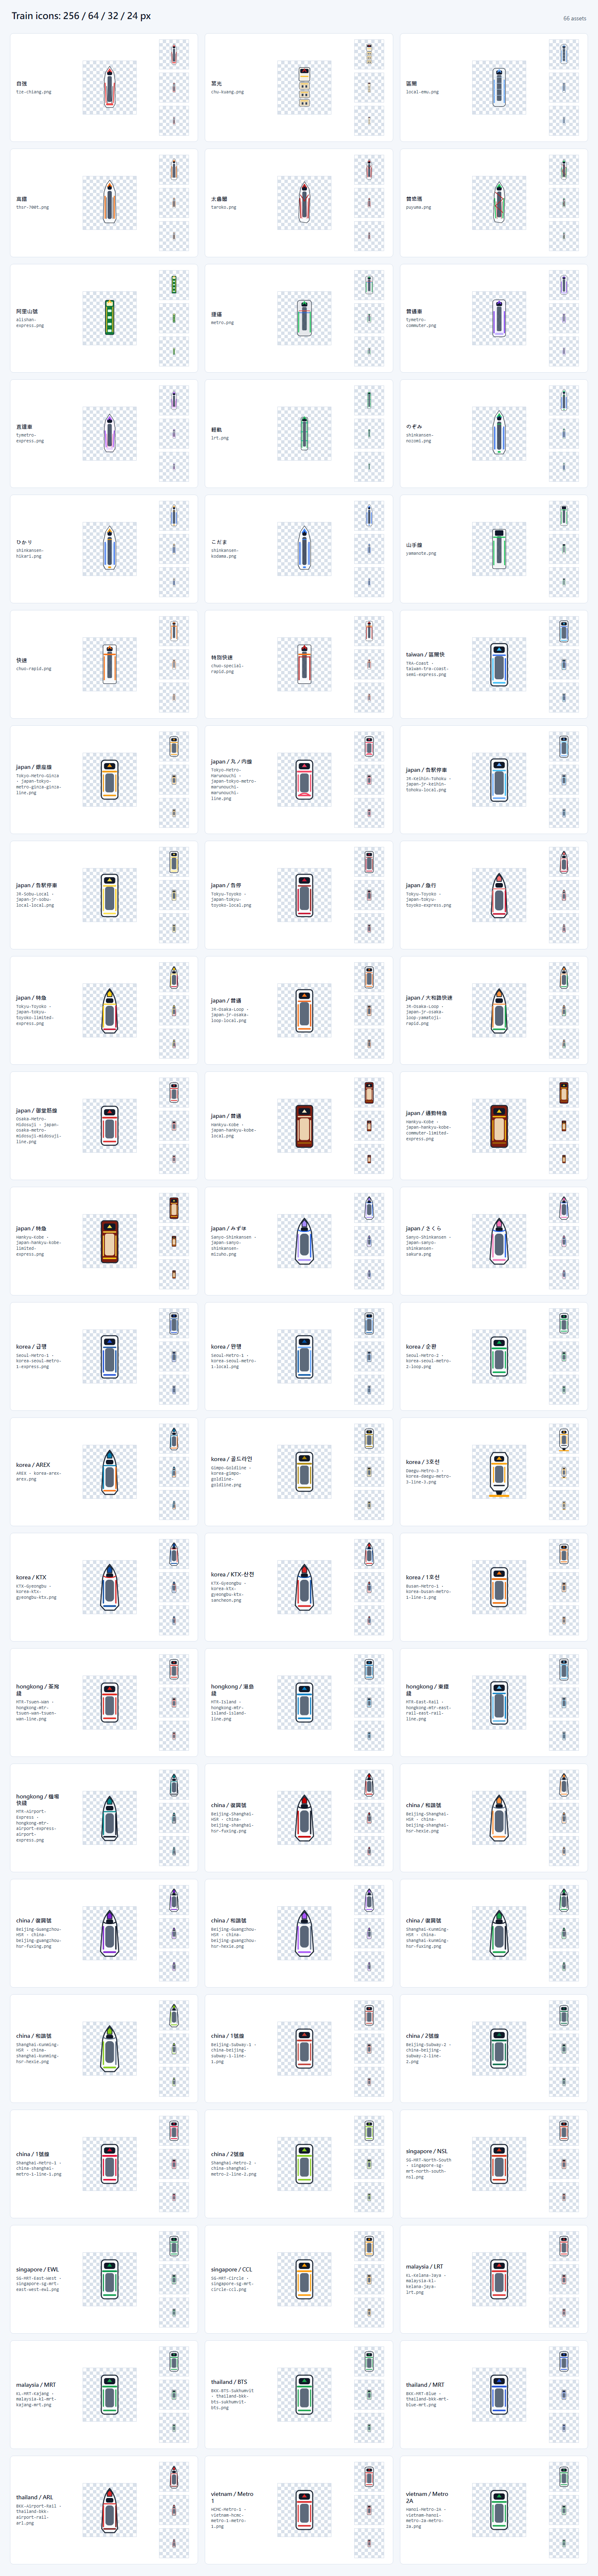
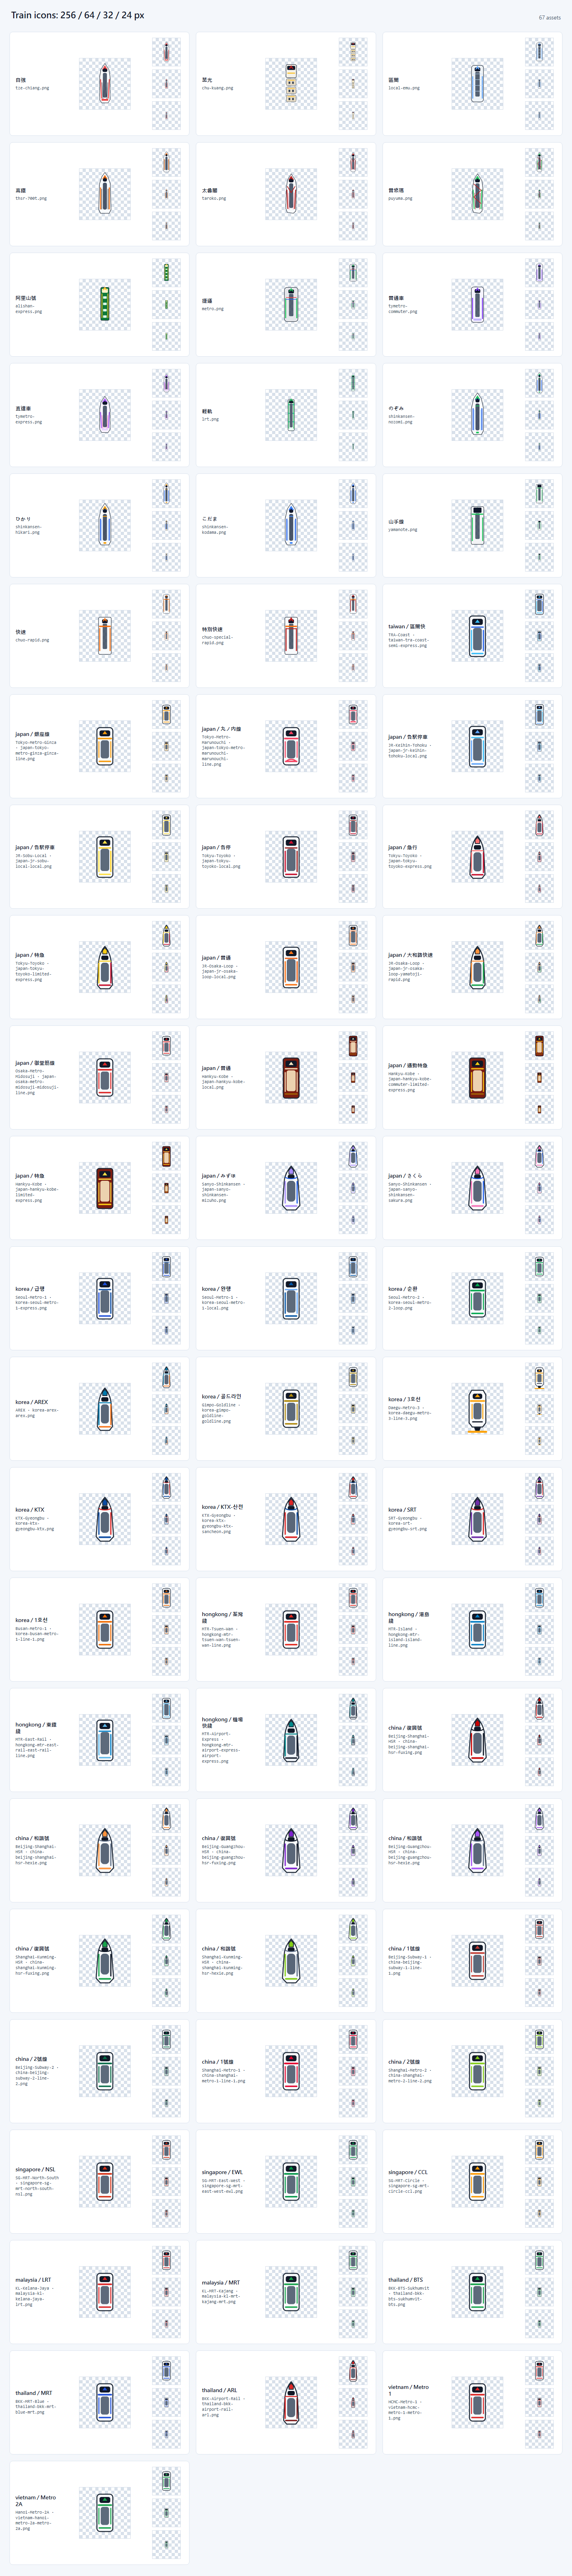
Add Korea SRT Gyeongbu data

diff --git a/src/rail-data.js b/src/rail-data.js
@@ -1363,6 +1363,31 @@ export const RAIL_DATA = {
         ],
       },
       {
+        id: "SRT-Gyeongbu",
+        name: "SRT 경부선",
+        nameEn: "SRT Gyeongbu Line",
+        color: "#6f2da8",
+        category: "HSR",
+        directions: { up: "수서 방면", down: "부산 방면" },
+        // SR official route: 수서 → 동탄 → 평택지제 → 천안아산 → 오송 → 대전 →
+        // 김천(구미) → 서대구 → 동대구 → 신경주 → 울산(통도사) → 부산.
+        // The end-to-end distance follows SR's Suseo-Busan 401.2 km service length.
+        stations: [
+          { name: "수서",       lat: 37.487321, lng: 127.101690, km: 0,     dwellSec: 90 },
+          { name: "동탄",       lat: 37.200138, lng: 127.095533, km: 32.4 },
+          { name: "평택지제",   lat: 37.018749, lng: 127.069842, km: 56.9 },
+          { name: "천안아산",   lat: 36.7945,   lng: 127.1043,   km: 82.0 },
+          { name: "오송",       lat: 36.6202,   lng: 127.3260,   km: 114.0 },
+          { name: "대전",       lat: 36.3320,   lng: 127.4346,   km: 147.0, dwellSec: 60 },
+          { name: "김천구미",   lat: 36.1153,   lng: 128.1732,   km: 211.0 },
+          { name: "서대구",     lat: 35.881470, lng: 128.540403, km: 270.0 },
+          { name: "동대구",     lat: 35.8794,   lng: 128.6285,   km: 279.0, dwellSec: 60 },
+          { name: "신경주",     lat: 35.7975,   lng: 129.1369,   km: 321.0 },
+          { name: "울산",       lat: 35.5512,   lng: 129.1330,   km: 350.0 },
+          { name: "부산",       lat: 35.1153,   lng: 129.0418,   km: 401.2, dwellSec: 90 },
+        ],
+      },
+      {
         id: "Busan-Metro-1",
         name: "부산 도시철도 1호선",
         nameEn: "Busan Metro Line 1",
@@ -1423,6 +1448,7 @@ export const RAIL_DATA = {
       { line: "Daegu-Metro-3",  type: "3호선",  badge: "3",      badgeColor: "#FDA208", speed: 70, interval: 5,  accel: 1.00, decel: 1.10, aLat: 0.90, dwellSec: 25 },
       { line: "KTX-Gyeongbu",   type: "KTX",    badge: "KTX",    badgeColor: "#0c4ca3", speed: 250, interval: 20, accel: 0.72, decel: 0.70, aLat: 0.85, dwellSec: 60 },
       { line: "KTX-Gyeongbu",   type: "KTX-산천", badge: "산천", badgeColor: "#dc2626", speed: 230, interval: 30, accel: 0.72, decel: 0.70, aLat: 0.85, dwellSec: 60 },
+      { line: "SRT-Gyeongbu",   type: "SRT",    badge: "SRT",    badgeColor: "#6f2da8", speed: 250, interval: 20, accel: 0.72, decel: 0.70, aLat: 0.85, dwellSec: 60 },
       { line: "Busan-Metro-1",  type: "1호선",  badge: "1",      badgeColor: "#f06a00", speed: 35, interval: 4,  accel: 1.00, decel: 1.10, aLat: 0.95, dwellSec: 25 },
     ],
   },

diff --git a/src/train-icon-registry.js b/src/train-icon-registry.js
@@ -49,6 +49,7 @@ export const TRAIN_ICON_REGISTRY = {
     'korea|Daegu-Metro-3|3호선': { icon: 'assets/train-icons/korea-daegu-metro-3-line-3.png', kind: 'monorail' },
     'korea|KTX-Gyeongbu|KTX': { icon: 'assets/train-icons/korea-ktx-gyeongbu-ktx.png', kind: 'shinkansen' },
     'korea|KTX-Gyeongbu|KTX-산천': { icon: 'assets/train-icons/korea-ktx-gyeongbu-ktx-sancheon.png', kind: 'shinkansen' },
+    'korea|SRT-Gyeongbu|SRT': { icon: 'assets/train-icons/korea-srt-gyeongbu-srt.png', kind: 'shinkansen' },
     'korea|Busan-Metro-1|1호선': { icon: 'assets/train-icons/korea-busan-metro-1-line-1.png', kind: 'metro' },
 
     'hongkong|MTR-Tsuen-Wan|荃灣綫': { icon: 'assets/train-icons/hongkong-mtr-tsuen-wan-tsuen-wan-line.png', kind: 'metro' },

diff --git a/doc/east-asia-expansion-plan.md b/doc/east-asia-expansion-plan.md
@@ -9,9 +9,9 @@
 ## 整體進度
 
 - **Phase A（手寫站表 + 車種）：完成 34/34 條（100%）** — `npm run check:timing` & `npm run test:smoke` & `npm run build` 全通過
-- **Phase B（OSM relation 對接）：34/34 條完成（100%）** — 批次 1–11 已補 OSM relation 並回灌真實軌道形狀；本輪沒有保留 0 km fallback。2026-05-09 高誤差複查後，補上 relation stop member 對站與 generated stationCoords 吸附，57 條線 runtime maxOffset 全部壓到 1.0 km 內。
+- **Phase B（OSM relation 對接）：34/34 條完成（100%）** — 批次 1–11 已補 OSM relation 並回灌真實軌道形狀；本輪沒有保留 0 km fallback。2026-05-10 加入南韓 backlog seeds 後，61 條線 runtime maxOffset 全部壓到 1.0 km 內。
 - **完整覆蓋 backlog（日本 / 南韓）：已建立規劃事項** — 覆蓋尚未加入的鐵道類型與候選線群；此區塊是後續大型擴張，不列入已完成的 34 條 Phase A/B 統計。
-- **Backlog seed（南韓 Airport / LRT-AGT / Monorail）：AREX、Gimpo Goldline 與 Daegu Metro Line 3 已完成代表線** — `AREX` 已補手寫站表、all-stop train template、OSM relation `7919000`、line-aware train icon；`Gimpo-Goldline` 已補 light metro 站表、all-stop train template、OSM relation `10092720`、line-aware train icon；`Daegu-Metro-3` 已補單軌站表、all-stop train template、OSM relation `7685727`、line-aware monorail train icon；可作為後續機場線、低運量自動化線與單軌線的 SOP 範例。
+- **Backlog seed（南韓 HSR / Airport / LRT-AGT / Monorail）：SRT Gyeongbu、AREX、Gimpo Goldline 與 Daegu Metro Line 3 已完成代表線** — `SRT-Gyeongbu` 已補手寫站表、SRT train template、OSM relation `6096884` + `6094351` corridor、line-aware SRT badge train icon；`AREX` 已補手寫站表、all-stop train template、OSM relation `7919000`、line-aware train icon；`Gimpo-Goldline` 已補 light metro 站表、all-stop train template、OSM relation `10092720`、line-aware train icon；`Daegu-Metro-3` 已補單軌站表、all-stop train template、OSM relation `7685727`、line-aware monorail train icon；可作為後續高速鐵道、機場線、低運量自動化線與單軌線的 SOP 範例。
 
 ## 類型分類
 
@@ -146,11 +146,11 @@
 
 ### 南韓：未加入類型與候選線群
 
-目前已加入南韓代表線：수도권 전철 1호선、서울 지하철 2호선、KTX 경부선、부산 도시철도 1호선。下表列出尚未完整納入的類型：
+目前已加入南韓代表線：수도권 전철 1호선、서울 지하철 2호선、KTX 경부선、SRT 경부선、부산 도시철도 1호선。下表列出尚未完整納入的類型：
 
 | 狀態 | 類型 | 規劃範圍 | 候選線群 / 例子 | 資料源 | 備註 |
 |---|---|---|---|---|---|
-| □ backlog | HSR | KTX / SRT 其餘高速服務與走廊 | SRT 수서系統；KTX 호남、전라、경전、강릉、중앙、중부내륙等 | OSM + KORAIL / SR 站表 | 可共用 KTX icon，但 SRT 需獨立 badge |
+| ◐ seed | HSR | KTX / SRT 其餘高速服務與走廊 | SRT 경부선（☑ A ☑ B）；SRT 호남 / 전라 / 경전 / 동해與 KTX 호남、전라、경전、강릉、중앙、중부내륙等 | OSM + KORAIL / SR 站表 | SRT Gyeongbu 已完成首條 SRT seed 並建立獨立 badge；KTX 系列可續用 KTX icon |
 | □ backlog | Intercity | 一般列車與優等在來線 | ITX-새마을、ITX-마음、누리로、무궁화호、ITX-청춘；京釜、湖南、中央、太白、嶺東、京春等 | OSM + KORAIL | 先補固定停站、班距穩定的主幹 |
 | □ backlog | Commuter / Metro | 首都圈廣域電鐵與地鐵未覆蓋線 | Seoul Metro 3–9、AREX、Shinbundang、Suin-Bundang、Gyeongui-Jungang、Gyeongchun、Gyeonggang、Seohae、Incheon 1/2 等 | OSM + operator data | 多線共線與直通複雜，需逐線確認 `directions` 與停站型 |
 | □ backlog | Metro | 非首都圈都市地鐵 | Busan 2–4、Daegu 1–2、Daejeon 1、Gwangju 1 | OSM | 與既有 Busan 1 組成第二批城市捷運 |
@@ -166,7 +166,7 @@ Backlog 執行原則：
 
 1. 每個新類型先做一條「代表線」驗證 icon、速度 profile、站距投影與 snap 行為，再擴成整個城市或營運者。
 2. 日本優先順序建議：剩餘新幹線 → 機場線 → 東京 / 大阪地下鐵補齊 → 大手民鐵 → Tram / Monorail / AGT → Regional / Heritage。
-3. 南韓優先順序建議：SRT / KTX 其餘走廊 → 首都圈 3–9 與廣域線 → Busan / Daegu / Daejeon / Gwangju → LRT / Monorail → Regional / Heritage；AREX all-stop 已完成首條 Airport seed，Gimpo Goldline 已完成首條 LRT/AGT seed，Daegu Metro Line 3 已完成首條 Monorail seed。
+3. 南韓優先順序建議：SRT / KTX 其餘走廊 → 首都圈 3–9 與廣域線 → Busan / Daegu / Daejeon / Gwangju → LRT / Monorail → Regional / Heritage；SRT Gyeongbu 已完成首條 HSR backlog seed，AREX all-stop 已完成首條 Airport seed，Gimpo Goldline 已完成首條 LRT/AGT seed，Daegu Metro Line 3 已完成首條 Monorail seed。
 4. Freight、鋼索、季節性觀光線若沒有穩定 passenger pass prediction 模型，先做地圖圖層規劃，不阻塞客運功能。
 
 ## 批次 5 — 香港：MTR（4 條）
@@ -241,11 +241,11 @@ Backlog 執行原則：
 
 ## 分類統計
 
-已完成的批次 1–11 合計 **34 條線**，分布如下；不含既有日本 3 條線（東海道新幹線、山手線、中央線）與上方新增的日本 / 南韓完整覆蓋 backlog。另有 backlog seed：南韓 `AREX` 1 條 Airport 線、`Gimpo-Goldline` 1 條 LRT/AGT 線、`Daegu-Metro-3` 1 條 Monorail 線已完成 A/B。
+已完成的批次 1–11 合計 **34 條線**，分布如下；不含既有日本 3 條線（東海道新幹線、山手線、中央線）與上方新增的日本 / 南韓完整覆蓋 backlog。另有 backlog seed：南韓 `SRT-Gyeongbu` 1 條 HSR 線、`AREX` 1 條 Airport 線、`Gimpo-Goldline` 1 條 LRT/AGT 線、`Daegu-Metro-3` 1 條 Monorail 線已完成 A/B。
 
 | 類型 | 條數 | 線名摘要 |
 |---|---|---|
-| HSR | 5 | 山陽新幹線、KTX 京釜、京滬、京廣、滬昆 |
+| HSR | 6 | 山陽新幹線、KTX 京釜、SRT 京釜、京滬、京廣、滬昆 |
 | Commuter | 5 | JR 京浜東北、JR 総武各停、東急東横、阪急神戸、MTR 東鐵 |
 | Metro | 18 | Tokyo Metro 2、Osaka Metro 1、Seoul 1、Busan 1、MTR 2、北京 / 上海地鐵 3、SG MRT 2、KL 2、BKK 2、HCMC/Hanoi 2 |
 | Loop | 4 | 大阪環状、Seoul 2 號、Beijing 2 號、SG Circle |

diff --git a/doc/railway-elf-sop.md b/doc/railway-elf-sop.md
@@ -25,6 +25,12 @@
 8. 跑發布前檢查。
 9. 記錄新來源、已知偏差、校正方式與 snapshot 更新原因。
 
+### 自動化輪次收斂與回報
+
+- 定期執行 SOP 時，以本輪「列車圖示建立與套用」是否完成作為可收斂完成點：先確認同國家既有同型號圖示能否沿用；若沒有可沿用資產，完成新圖示生成、contact sheet 更新與必要圖示檢查後，該輪即可視為完成。
+- 若 `git push` 因外部核准或安全審核暫停，記為 push pending；不要因此判定上一輪未完成，也不要阻塞下一輪選新目標。
+- 每輪回報需包含資料量與耗時：新增/修改的 region、line、station、train template、shape mapping、icon registry/PNG 數量；執行過的檢查與各自耗時；整輪開始到完成的總耗時。未變更的類別明確標示 0。
+
 ## 路線與站點處理流程
 
 ### 目標

diff --git a/doc/follow-up-plan.md b/doc/follow-up-plan.md
@@ -4,7 +4,7 @@
 
 ## 目前結論
 
-沒有尚未完成的必要項目；大東亞擴張 Phase B 已完成 34/34 條 OSM 形狀回灌，snapshot 已更新到 57 條線。高誤差複查後，57 條線 runtime maxOffset 全部壓到 1.0 km 內，沒有 0 km fallback 或需阻塞上線的資料缺口。日本 / 南韓「完整類型覆蓋」已作為可選大型 backlog 加入 `doc/east-asia-expansion-plan.md`，不列入目前完成率；其中南韓 Airport 類已完成第一條代表線 `AREX`，LRT/AGT 類已完成第一條代表線 `Gimpo-Goldline`，Monorail 類已完成第一條代表線 `Daegu-Metro-3`。
+沒有尚未完成的必要項目；大東亞擴張 Phase B 已完成 34/34 條 OSM 形狀回灌，snapshot 已更新到 61 條線。高誤差複查後，61 條線 runtime maxOffset 全部壓到 1.0 km 內，沒有 0 km fallback 或需阻塞上線的資料缺口。日本 / 南韓「完整類型覆蓋」已作為可選大型 backlog 加入 `doc/east-asia-expansion-plan.md`，不列入目前完成率；其中南韓 HSR 類已完成第一條 SRT 代表線 `SRT-Gyeongbu`，Airport 類已完成第一條代表線 `AREX`，LRT/AGT 類已完成第一條代表線 `Gimpo-Goldline`，Monorail 類已完成第一條代表線 `Daegu-Metro-3`。
 
 ## 本次完成
 
@@ -21,6 +21,7 @@
 - 南韓 Airport seed：新增 `AREX` all-stop（서울역 ⇄ 인천공항2터미널）14 站、1 個 train template、OSM relation `7919000`、line-aware AREX 圖示，並在 `doc/east-asia-expansion-plan.md` 清理 Airport backlog 狀態。
 - 南韓 LRT/AGT seed：新增 `Gimpo-Goldline` all-stop（양촌 ⇄ 김포공항）10 站、1 個 train template、OSM relation `10092720`、line-aware Gimpo Goldline 圖示，並在 `doc/east-asia-expansion-plan.md` 清理 LRT/AGT backlog 狀態。
 - 南韓 Monorail seed：新增 `Daegu-Metro-3` all-stop（칠곡경대병원 ⇄ 용지）30 站、1 個 train template、OSM relation `7685727`、line-aware Daegu monorail 圖示，並在 `doc/east-asia-expansion-plan.md` 清理 Monorail backlog 狀態。
+- 南韓 HSR seed：新增 `SRT-Gyeongbu`（수서 ⇄ 부산）12 站、1 個 SRT train template、OSM relation `6096884` + `6094351` corridor、line-aware SRT badge 圖示，並在 `doc/east-asia-expansion-plan.md` 清理 HSR backlog 狀態。
 
 ## 未完成
 
@@ -30,7 +31,7 @@
 
 - Tokaido-Shinkansen：若 OSM 未來有更乾淨 relation，可替換 corridor reconstruction 並更新 snapshot（依賴上游資料,目前無動作可做）。
 - 若要再往工程級精度推進，可優先精修目前 maxOffset 約 0.75–1.0 km 的路線（如 `Beijing-Shanghai-HSR`、`Beijing-Guangzhou-HSR`、`JR-Keihin-Tohoku`、`KHH-Red`、`Tamsui-LRT`、`JR-Osaka-Loop`、`Tokyu-Toyoko`、`Seoul-Metro-1`、`TPE-Yellow`、`TYMRT`），用官方站點座標或更乾淨的 OSM station node 逐站替換。
-- 日本 / 南韓完整覆蓋：依 `doc/east-asia-expansion-plan.md` 的 backlog，未來可從剩餘新幹線 / SRT-KTX 走廊、東京 / 首都圈地鐵、Tram / Regional / Heritage 等類型各挑一條代表線先做；南韓 Airport 類已有 `AREX` all-stop seed，LRT/AGT 類已有 `Gimpo-Goldline` seed，Monorail 類已有 `Daegu-Metro-3` seed，AREX 直通列車待 skip-stop template 支援後再補。
+- 日本 / 南韓完整覆蓋：依 `doc/east-asia-expansion-plan.md` 的 backlog，未來可從剩餘新幹線 / SRT-KTX 走廊、東京 / 首都圈地鐵、Tram / Regional / Heritage 等類型各挑一條代表線先做；南韓 HSR 類已有 `SRT-Gyeongbu` seed，Airport 類已有 `AREX` all-stop seed，LRT/AGT 類已有 `Gimpo-Goldline` seed，Monorail 類已有 `Daegu-Metro-3` seed，AREX 直通列車待 skip-stop template 支援後再補。
 
 ## 建議下一步
 